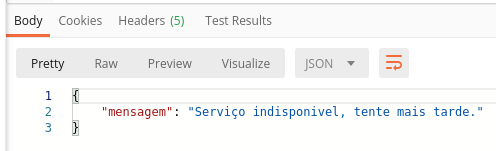
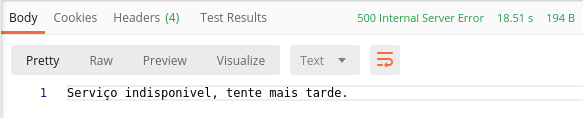
Adicionado exception Handler para retorno de requisição de compra negativo

diff --git a/passagem/src/main/java/br/com/maddytec/passagem/gateway/http/CompraController.java b/passagem/src/main/java/br/com/maddytec/passagem/gateway/http/CompraController.java
@@ -1,5 +1,6 @@
 package br.com.maddytec.passagem.gateway.http;
 
+import br.com.maddytec.passagem.gateway.exception.CompraNaoEnviadaException;
 import br.com.maddytec.passagem.gateway.json.CompraChaveJson;
 import br.com.maddytec.passagem.gateway.json.CompraJson;
 import br.com.maddytec.passagem.gateway.json.RetornoJson;
@@ -30,20 +31,13 @@ public class CompraController {
 
     @PostMapping
     public ResponseEntity<RetornoJson> comprar(
-            @Valid @NotNull @RequestBody CompraJson compraJson) throws Exception {
-        RetornoJson retornoJson = null;
-        try {
-            CompraChaveJson compraChaveJson = CompraChaveJson.builder()
+            @Valid @NotNull @RequestBody CompraJson compraJson)  {
+        CompraChaveJson compraChaveJson = CompraChaveJson.builder()
                     .compraJson(compraJson)
                     .chave(UUID.randomUUID().toString())
                     .build();
 
-            retornoJson = filaService.enviar(compraChaveJson);
-
-            return new ResponseEntity<RetornoJson>(retornoJson, HttpStatus.OK);
-        } catch (Exception ex) {
-            return new ResponseEntity<RetornoJson>(retornoJson, HttpStatus.INTERNAL_SERVER_ERROR);
-        }
-
+        RetornoJson retornoJson = filaService.enviar(compraChaveJson);
+        return new ResponseEntity<RetornoJson>(retornoJson, HttpStatus.OK);
     }
 }

diff --git a/passagem/src/main/java/br/com/maddytec/passagem/service/FilaService.java b/passagem/src/main/java/br/com/maddytec/passagem/service/FilaService.java
@@ -1,5 +1,6 @@
 package br.com.maddytec.passagem.service;
 
+import br.com.maddytec.passagem.gateway.exception.CompraNaoEnviadaException;
 import br.com.maddytec.passagem.gateway.json.CompraChaveJson;
 import br.com.maddytec.passagem.gateway.json.RetornoJson;
 import lombok.extern.log4j.Log4j2;
@@ -21,7 +22,7 @@ public class FilaService {
     @Value("${fila.saida}")
     private String filaSaida;
 
-    public RetornoJson enviar(CompraChaveJson compraChaveJson) {
+    public RetornoJson enviar(CompraChaveJson compraChaveJson) throws CompraNaoEnviadaException {
         try {
             log.info("Enviando para fila de compra.");
             rabbitTemplate.convertAndSend(filaSaida, compraChaveJson);
@@ -33,9 +34,7 @@ public class FilaService {
                     .build();
 
         } catch (Exception ex) {
-           return RetornoJson.builder()
-                    .mensagem("Serviço indisponivel, tente mais tarde.")
-                    .build();
+            throw new CompraNaoEnviadaException(ex.getMessage());
         }
     }
 }

diff --git a/passagem/src/main/java/br/com/maddytec/passagem/gateway/exception/ExceptionHandlerController.java b/passagem/src/main/java/br/com/maddytec/passagem/gateway/exception/ExceptionHandlerController.java
@@ -1,0 +1,19 @@
+package br.com.maddytec.passagem.gateway.exception;
+
+import org.springframework.http.HttpStatus;
+import org.springframework.web.bind.annotation.ControllerAdvice;
+import org.springframework.web.bind.annotation.ExceptionHandler;
+import org.springframework.web.bind.annotation.ResponseBody;
+import org.springframework.web.bind.annotation.ResponseStatus;
+
+@ControllerAdvice
+public class ExceptionHandlerController {
+
+    @ExceptionHandler(CompraNaoEnviadaException.class)
+    @ResponseStatus(value = HttpStatus.INTERNAL_SERVER_ERROR)
+    @ResponseBody
+    public String process(CompraNaoEnviadaException compraNaoEnviadaException) {
+        return "Serviço indisponivel, tente mais tarde.";
+    }
+
+}

diff --git a/passagem/src/main/java/br/com/maddytec/passagem/gateway/exception/CompraNaoEnviadaException.java b/passagem/src/main/java/br/com/maddytec/passagem/gateway/exception/CompraNaoEnviadaException.java
@@ -1,0 +1,12 @@
+package br.com.maddytec.passagem.gateway.exception;
+
+import lombok.NoArgsConstructor;
+
+@NoArgsConstructor
+public class CompraNaoEnviadaException extends RuntimeException {
+
+    public CompraNaoEnviadaException(String mensagem){
+        super(mensagem);
+    }
+
+}
